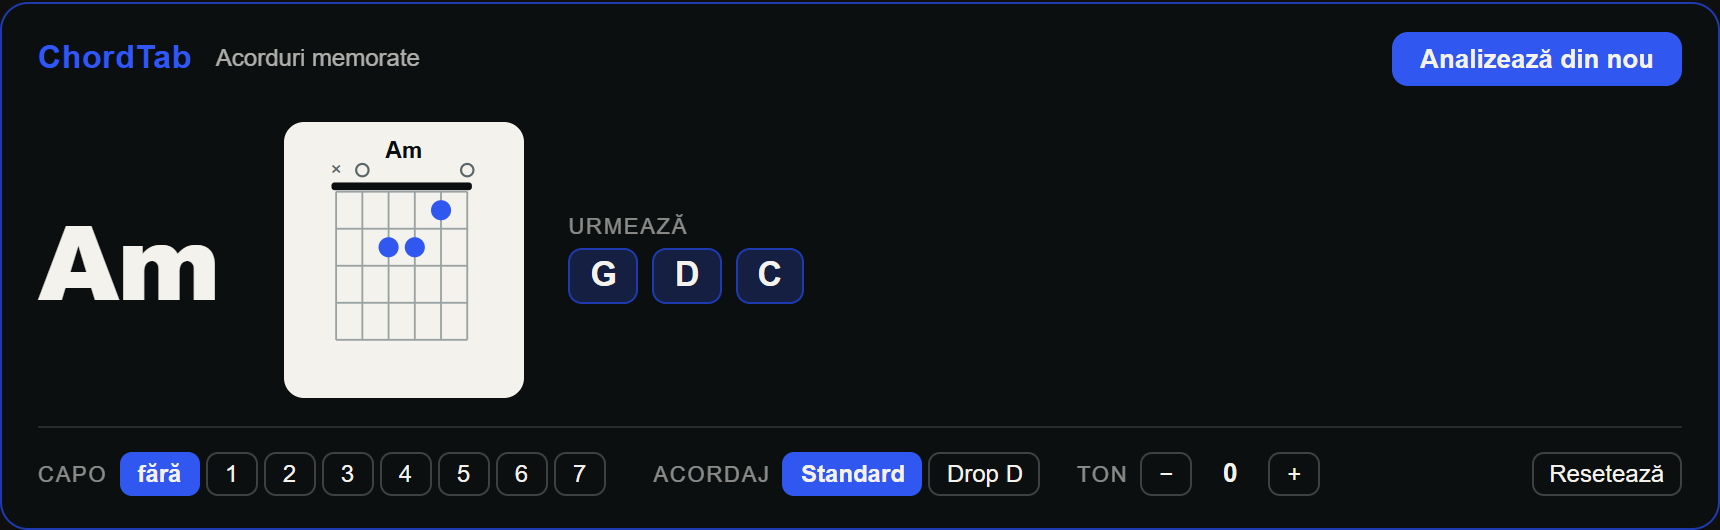
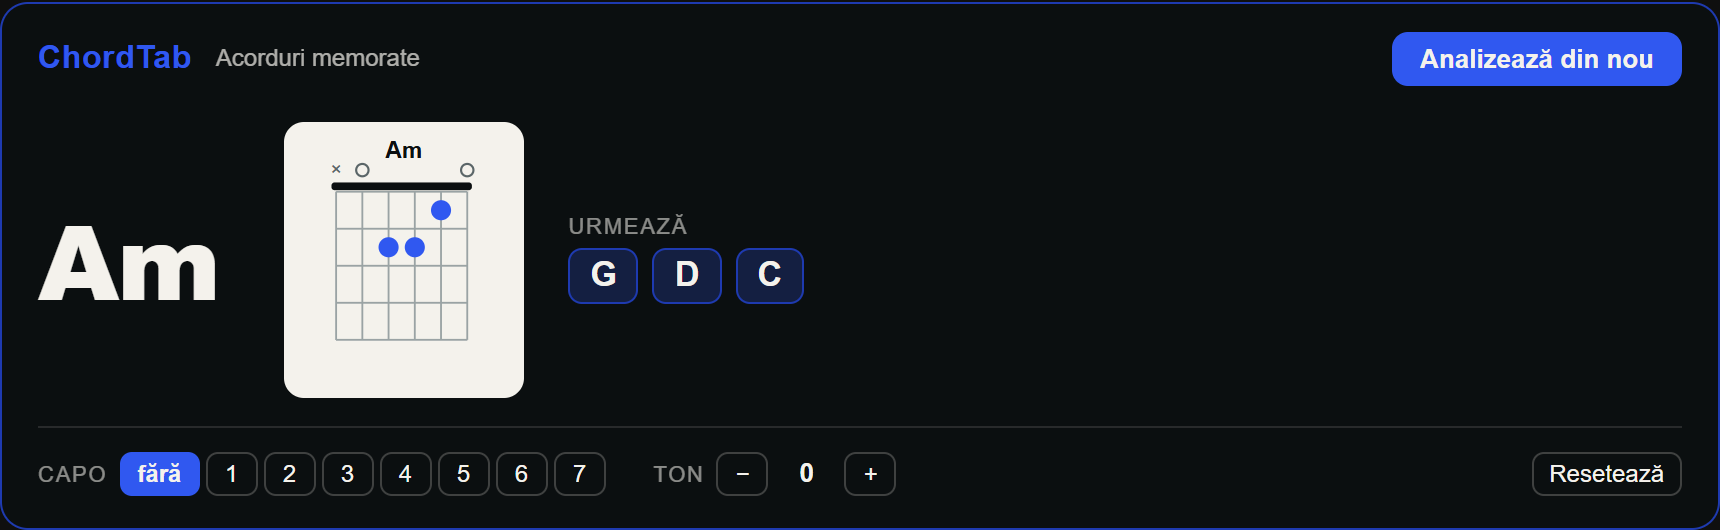
Scos comutatorul de acordaj (Drop D)
Andrei, pe bună dreptate: exista drop D, drop C, drop orice — un comutator
pentru unul singur e arbitrar si nu se poate generaliza cinstit. Scos complet:
UI, transformarea din diagrams.js, textele si testele.

Ramane in diagrams.js o nota care explica de ce presupunem acordaj standard,
ca sa nu reinventeze cineva ideea peste sase luni.

resetTuning redenumit resetControls — dupa scoaterea acordajului, numele vechi
sugera altceva decat face (reseteaza capo si tonul).

Changed region(s): [[0.3698, 0.8453, 0.6779, 0.9358], [0.7087, 0.8453, 0.7703, 0.9358]]

diff --git a/extension/content/content.js b/extension/content/content.js
@@ -12,7 +12,7 @@
 import { createLogger } from '../lib/logger.js';
 import { STR } from '../lib/strings.js';
 import { transposeChord, bestCapo, NO_CHORD } from '../lib/music-theory.js';
-import { renderChordDiagram, hasDiagram, TUNINGS } from '../lib/diagrams.js';
+import { renderChordDiagram, hasDiagram } from '../lib/diagrams.js';
 
 const log = createLogger('content');
 
@@ -27,7 +27,6 @@ const state = {
   chords: [],         // { t, label, confidence } — sortate după t
   capo: 0,            // poziția capo aleasă (0 = fără)
   suggestedCapo: 0,
-  tuning: 'standard', // acordajul chitarei (schimba digitatiile din diagrame)
   transpose: 0,       // schimbare de tonalitate cerută manual, în semitonuri
   analyzedAt: null,
   timeInterval: null,
@@ -187,10 +186,6 @@ function buildPanel() {
         <span class="ct-capo-buttons"></span>
         <span class="ct-capo-hint"></span>
       </div>
-      <div class="ct-group ct-tuning-group">
-        <span class="ct-group-label" title="${STR.tuningHelp}">${STR.tuning}</span>
-        <span class="ct-tuning-buttons"></span>
-      </div>
       <div class="ct-group">
         <span class="ct-group-label" title="${STR.transposeHelp}">${STR.transpose}</span>
         <button class="ct-btn ct-tr-down" type="button">−</button>
@@ -210,7 +205,6 @@ function buildPanel() {
     nextList: panel.querySelector('.ct-next-list'),
     capoButtons: panel.querySelector('.ct-capo-buttons'),
     capoHint: panel.querySelector('.ct-capo-hint'),
-    tuningButtons: panel.querySelector('.ct-tuning-buttons'),
     trValue: panel.querySelector('.ct-tr-value'),
     diagramSlot: panel.querySelector('.ct-diagram-slot'),
   });
@@ -220,9 +214,8 @@ function buildPanel() {
   ui.action.addEventListener('click', onActionClick);
   panel.querySelector('.ct-tr-down').addEventListener('click', () => nudgeTranspose(-1));
   panel.querySelector('.ct-tr-up').addEventListener('click', () => nudgeTranspose(1));
-  panel.querySelector('.ct-reset').addEventListener('click', resetTuning);
+  panel.querySelector('.ct-reset').addEventListener('click', resetControls);
   buildCapoButtons();
-  buildTuningButtons();
 
   // Îl atașăm imediat (overlay) ca să fie vizibil din prima, apoi îl mutăm sub video
   // când #below apare. Dacă nu apare deloc, rămâne overlay — comportamentul de rezervă.
@@ -251,24 +244,6 @@ function buildCapoButtons() {
   }
 }
 
-function buildTuningButtons() {
-  ui.tuningButtons.innerHTML = '';
-  for (const [key, t] of Object.entries(TUNINGS)) {
-    const b = document.createElement('button');
-    b.type = 'button';
-    b.className = 'ct-btn ct-tuning';
-    b.dataset.tuning = key;
-    b.textContent = t.label;
-    b.addEventListener('click', () => {
-      state.tuning = key;
-      ui.diagramKey = null; // forțăm redesenarea: aceeași etichetă, alte digitații
-      ui.chipKey = null;
-      render();
-    });
-    ui.tuningButtons.appendChild(b);
-  }
-}
-
 function render() {
   const { mode } = state;
   ui.status.classList.remove('is-warning');
@@ -287,9 +262,6 @@ function render() {
     b.classList.toggle('is-suggested',
       state.chords.length > 0 && state.suggestedCapo > 0
       && Number(b.dataset.capo) === state.suggestedCapo);
-  }
-  for (const b of ui.tuningButtons.children) {
-    b.classList.toggle('is-active', b.dataset.tuning === state.tuning);
   }
 
   if (mode === 'playback') renderPlayback();
@@ -333,7 +305,7 @@ function fillChordList(soundingLabels) {
     chip.textContent = label;
     chip.dataset.chord = label;
     chip.tabIndex = 0;
-    chip.classList.toggle('ct-has-diagram', hasDiagram(label, state.tuning));
+    chip.classList.toggle('ct-has-diagram', hasDiagram(label));
     attachChipHover(chip);
     ui.nextList.appendChild(chip);
   }
@@ -344,7 +316,7 @@ function nudgeTranspose(delta) {
   render();
 }
 
-function resetTuning() {
+function resetControls() {
   state.transpose = 0;
   state.capo = 0; // înapoi la acordurile care se aud cu adevărat
   render();
@@ -363,10 +335,10 @@ function resetTuning() {
 function showDiagram(label) {
   if (!ui.diagramSlot) return;
   const wanted = label && label !== NO_CHORD && label !== STR.noChordsYet ? label : null;
-  const key = `${wanted}|${state.capo}|${state.tuning}`;
+  const key = `${wanted}|${state.capo}`;
   if (ui.diagramKey === key) return; // deja e pe ecran — nu atingem DOM-ul degeaba
   ui.diagramKey = key;
-  const svg = wanted ? renderChordDiagram(wanted, state.capo, state.tuning) : null;
+  const svg = wanted ? renderChordDiagram(wanted, state.capo) : null;
   ui.diagramSlot.innerHTML = svg || '';
   ui.diagramSlot.classList.toggle('is-empty', !svg);
 }

diff --git a/extension/lib/diagrams.js b/extension/lib/diagrams.js
@@ -55,45 +55,14 @@ const BARRE_SHAPES = {
   A: { '': [-1, 0, 2, 2, 2, 0], m: [-1, 0, 2, 2, 1, 0], 7: [-1, 0, 2, 0, 2, 0], m7: [-1, 0, 2, 0, 1, 0], maj7: [-1, 0, 2, 1, 2, 0], string: 5 },
 };
 
-/** Acordajele pe care le știm. `drop` = cu cât e coborâtă coarda 6 față de standard. */
-export const TUNINGS = {
-  standard: { label: 'Standard', drop: 0 },
-  dropD: { label: 'Drop D', drop: 2 },
-};
-
-/**
- * Traduce o formă din acordaj standard în Drop D.
- *
- * În Drop D, coarda 6 e coborâtă cu un ton, deci la aceeași poziție sună cu 2 semitonuri mai
- * jos. Ca să sune aceeași notă, o apeși cu 2 poziții mai sus. Restul corzilor nu se schimbă.
- * Dacă mutarea face acordul necântabil (întindere prea mare), e mai cinstit să muți coarda 6
- * decât să ceri imposibilul — oricum așa cântă lumea în practică.
- */
-function toDropD(frets) {
-  const out = frets.slice();
-  if (out[0] >= 0) {
-    const moved = out[0] + 2;
-    const others = out.slice(1).filter((f) => f > 0);
-    const span = others.length ? Math.max(moved, ...others) - Math.min(moved, ...others) : 0;
-    out[0] = span <= 3 ? moved : -1;
-  }
-  return out;
-}
-
 /**
  * Forma acordului: șase poziții + de unde începe bara (0 = fără bară).
- * @param {string} label
- * @param {'standard'|'dropD'} tuning
+ * Presupunem acordaj standard. Acordajele coborâte (drop D, drop C…) sunt prea multe și prea
+ * greu de ghicit din sunet ca să merite tratate: basul cântă în același registru, deci n-am
+ * putea deosebi o chitară coborâtă de un bas obișnuit.
  * @returns {{frets:number[], barre:number, baseFret:number}|null}
  */
-export function chordShape(label, tuning = 'standard') {
-  const shape = standardShape(label);
-  if (!shape || tuning === 'standard') return shape;
-  const frets = toDropD(shape.frets);
-  return { frets, barre: barreOf(label, frets), baseFret: shape.baseFret };
-}
-
-function standardShape(label) {
+export function chordShape(label) {
   const open = OPEN_SHAPES[label];
   if (open) return { frets: open.slice(), barre: barreOf(label, open), baseFret: 1 };
 
@@ -127,18 +96,17 @@ function barreOf(label, frets) {
   return atMin >= 3 ? min : 0;
 }
 
-export function hasDiagram(label, tuning = 'standard') {
-  return !!chordShape(label, tuning);
+export function hasDiagram(label) {
+  return !!chordShape(label);
 }
 
 /**
  * Diagrama ca SVG, gata de pus în pagină.
  * @param {string} label acordul AȘA CUM SE CÂNTĂ (deja transpus, dacă e cazul)
  * @param {number} capo poziția capo, doar ca să apară scris pe diagramă
- * @param {'standard'|'dropD'} tuning acordajul chitarei
  */
-export function renderChordDiagram(label, capo = 0, tuning = 'standard') {
-  const shape = chordShape(label, tuning);
+export function renderChordDiagram(label, capo = 0) {
+  const shape = chordShape(label);
   if (!shape) return null;
 
   const { frets, barre } = shape;
@@ -195,11 +163,8 @@ export function renderChordDiagram(label, capo = 0, tuning = 'standard') {
     parts.push(`<circle cx="${x(s)}" cy="${y(row) + rh / 2}" r="6.5" class="ct-d-dot"/>`);
   });
 
-  const notes = [];
-  if (capo > 0) notes.push(`capo ${capo}`);
-  if (tuning !== 'standard') notes.push(TUNINGS[tuning]?.label ?? tuning);
-  const caption = notes.length
-    ? `<text x="${W / 2}" y="${H - 6}" class="ct-d-capo" text-anchor="middle">${escapeHtml(notes.join(' · '))}</text>`
+  const caption = capo > 0
+    ? `<text x="${W / 2}" y="${H - 6}" class="ct-d-capo" text-anchor="middle">capo ${capo}</text>`
     : '';
 
   return `<svg viewBox="0 0 ${W} ${H}" width="${W}" height="${H}" class="ct-diagram" role="img" aria-label="Diagrama acordului ${escapeHtml(label)}">${parts.join('')}${caption}</svg>`;

diff --git a/extension/lib/strings.js b/extension/lib/strings.js
@@ -26,9 +26,6 @@ export const STR = {
   noCapo: 'fără',
   // Când sugestia e „fără”, butonul aprins spune deja totul — nu repetăm.
   capoSuggested: (n) => (n === 0 ? '' : `sugerat: ${n}`),
-  tuning: 'Acordaj',
-  tuningHelp: 'Schimbă digitațiile pentru chitare acordate altfel. Nu putem ghici acordajul din '
-    + 'sunet — basul cântă în același registru — deci alegi tu.',
   transpose: 'Ton',
   transposeValue: (n) => (n === 0 ? '0' : n > 0 ? `+${n}` : `${n}`),
   reset: 'Resetează',

diff --git a/extension/content/panel.css b/extension/content/panel.css
@@ -177,8 +177,7 @@
   cursor: help;
 }
 
-.ct-capo-buttons,
-.ct-tuning-buttons { display: flex; gap: 3px; }
+.ct-capo-buttons { display: flex; gap: 3px; }
 
 .ct-btn {
   background: transparent;
